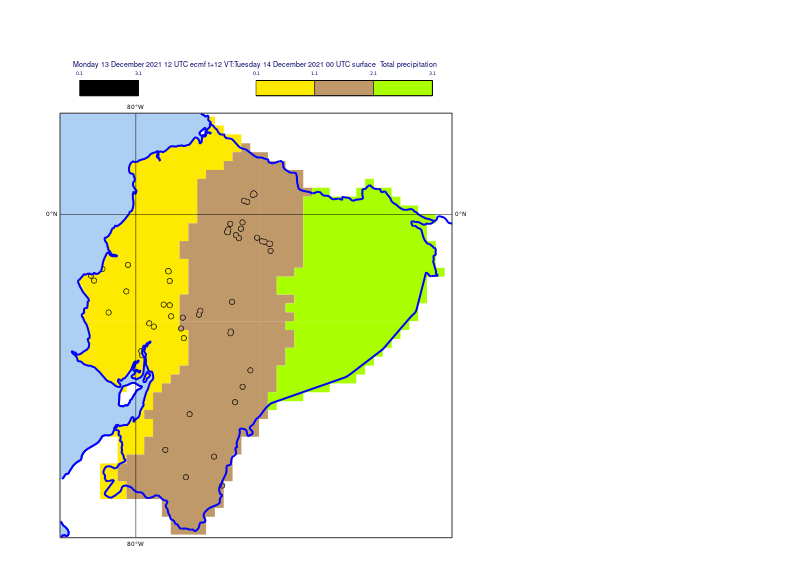
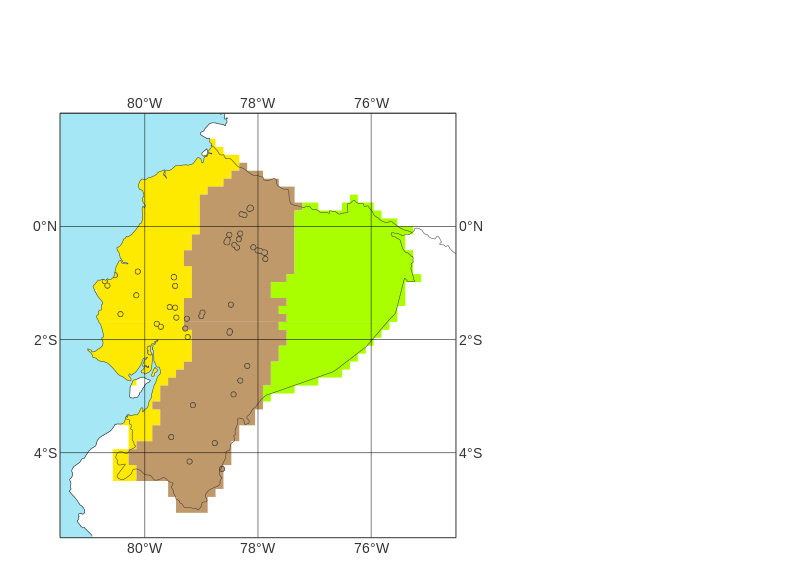
Improving the map plots of point flood reports for better readability.

diff --git a/Scripts/Processed/02_Plot_PointFR_EFFCI.py b/Scripts/Processed/02_Plot_PointFR_EFFCI.py
@@ -22,7 +22,7 @@ import metview as mv
 # INPUT PARAMETERS
 Year_list = [2019,2020]
 EFFCI_list = [1,6,10]
-CornersDomain_list = [1.6,-81.2,-5.11,-75]
+CornersDomain_list = [2,-81.5,-5.5,-74.5]
 RegionCode_list = [1,2,3]
 RegionName_list = ["La Costa", "La Sierra", "El Oriente"]
 RegionColour_list = ["RGB(255/255,234/255,0/255)", "RGB(193/255,154/255,107/255)", "RGB(170/255,255/255,0/255)"]
@@ -81,17 +81,20 @@ for Year in Year_list:
             # Plotting the point flood reports
             coastlines = mv.mcoast(
                   map_coastline_resolution = "full",
-                  map_coastline_colour = "blue",
-                  map_coastline_thickness = 4,
+                  map_coastline_colour = "charcoal",
+                  map_coastline_thickness = 1,
                   map_coastline_sea_shade = "on",
-                  map_coastline_sea_shade_colour = "rgb(0.6791,0.8111,0.9523)",
+                  map_coastline_sea_shade_colour = "rgb(0.6455,0.903,0.9545)",
                   map_boundaries = "on",
-                  map_boundaries_colour = "blue",
-                  map_boundaries_thickness = 4,
+                  map_boundaries_colour = "charcoal",
+                  map_boundaries_thickness = 1,
                   map_grid = "on",
-                  map_grid_latitude_increment  = 10,
-                  map_grid_longitude_increment = 10,
-                  map_label = "on"
+                  map_grid_latitude_increment  = 2,
+                  map_grid_longitude_increment = 2,
+                  map_label = "on",
+                  map_label_font = "arial",
+                  map_label_colour = "charcoal",
+                  map_label_height = 0.6
                   )
 
             geo_view = mv.geoview(
@@ -101,6 +104,7 @@ for Year in Year_list:
                   )
 
             mask_shading = mv.mcont(
+                  legend = "off",
                   contour = "off",
                   contour_level_selection_type = "level_list",
                   contour_level_list = RegionCode_list,
@@ -112,19 +116,19 @@ for Year in Year_list:
                   )
 
             PointFR_contour = mv.msymb(
-                  legend = "on",
+                  legend = "off",
                   symbol_type = "marker",
                   symbol_table_mode = "on",
                   symbol_outline = "on",
                   symbol_min_table = [0.1],
                   symbol_max_table = [3.1],
-                  symbol_colour_table = ["RGB(0000,0.0000,0.0000)"],
+                  symbol_colour_table = "charcoal",
                   symbol_marker_table = 15,
                   symbol_height_table = 0.4
                   )
 
             PointFR_shades = mv.msymb(
-                  legend = "on",
+                  legend = "off",
                   symbol_type = "marker",
                   symbol_table_mode = "on",
                   symbol_outline = "on",
@@ -135,9 +139,13 @@ for Year in Year_list:
                   symbol_height_table = 0.3
                   )
 
+            no_title = mv.mtext(
+                  text_line_1 = " "
+                  )
+
             # Saving the plot
             print("Saving the map plot ...")
             FileOUT = DirOUT + "/PointFR_" + str(Year) + "_EFFCI" + f"{EFFCI:02d}"
             png = mv.png_output(output_name = FileOUT)
             mv.setoutput(png)
-            mv.plot(geo_view, Mask, mask_shading, PointFR_geo, PointFR_contour, PointFR_shades, coastlines)
+            mv.plot(geo_view, Mask, mask_shading, PointFR_geo, PointFR_contour, PointFR_shades, coastlines, no_title)
